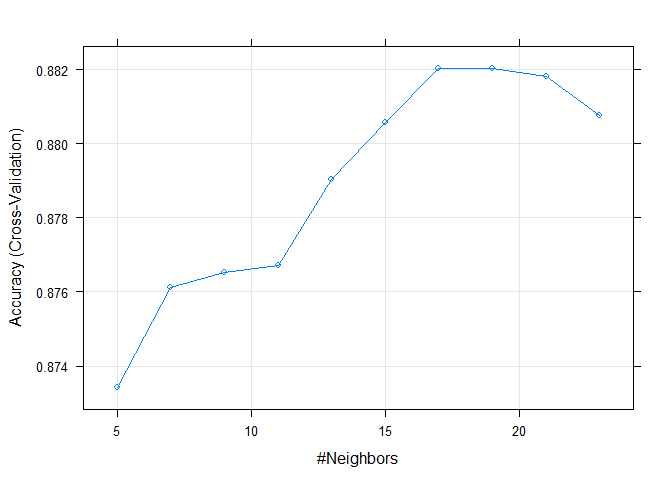
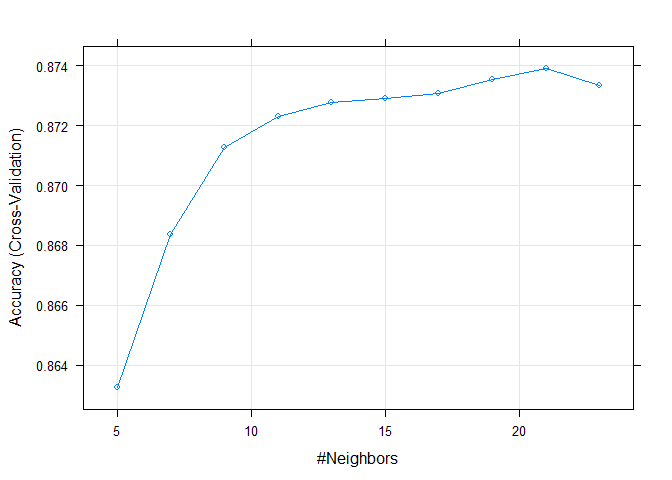
update to sample entire solo data set

diff --git a/src/objective_two/chance/knn.md b/src/objective_two/chance/knn.md
@@ -22,14 +22,14 @@ Chance Robinson
 library(tidyverse)
 ```
 
-    ## -- Attaching packages ------------------------------------------------------------------------------------ tidyverse 1.2.1 --
+    ## -- Attaching packages ------------------------------------------------------------------------------------------------------------ tidyverse 1.2.1 --
 
     ## v ggplot2 3.2.1     v purrr   0.3.3
     ## v tibble  2.1.3     v dplyr   0.8.3
     ## v tidyr   1.0.0     v stringr 1.4.0
     ## v readr   1.3.1     v forcats 0.4.0
 
-    ## -- Conflicts --------------------------------------------------------------------------------------- tidyverse_conflicts() --
+    ## -- Conflicts --------------------------------------------------------------------------------------------------------------- tidyverse_conflicts() --
     ## x dplyr::filter() masks stats::filter()
     ## x dplyr::lag()    masks stats::lag()
 
@@ -62,40 +62,40 @@ head(data)
 ```
 
     ##               Id        groupId        matchId assists boosts damageDealt DBNOs
-    ## 1 315c96c26c9aac de04010b3458dd 6dc8ff871e21e6       0      0     100.000     0
-    ## 2 311b84c6ff4390 eaba5fcb7fc1ae 292611730ca862       0      0       8.538     0
-    ## 3 b7807186e3f679 3c08e461874749 2c30ddf481c52d       0      1     324.200     0
-    ## 4 92022479b92ce7 2f2c33f548c4b9 07948d723b9c0f       0      3     254.300     0
-    ## 5 47143f942503e0 e17a8867a393ec bc2faecb77e5ec       0      0     136.900     0
-    ## 6 269c3fc4a26935 3c07be51998e6f ce9bc89b3ca08c       0      1     100.000     0
+    ## 1 269c3fc4a26935 3c07be51998e6f ce9bc89b3ca08c       0      1      100.00     0
+    ## 2 73348483a5974b 1c8e486a643207 85601fe44d519b       0      0       17.81     0
+    ## 3 caa1a36afeb7b2 c653cfca3b8b06 e5e181d2da0334       0      1      100.00     0
+    ## 4 5fd62798396ca8 bb19a05801d30d 9e3c46f8acde82       0      0       36.00     0
+    ## 5 18d002b46b1abc 00a3f236559532 eccc44618c0442       0      1      236.00     0
+    ## 6 d08ce24e7a7973 d57ed9de010a4e 1eda9747e31f1f       0      0        0.00     0
     ##   headshotKills heals killPlace killPoints kills killStreaks longestKill
-    ## 1             0     0        45          0     1           1       58.53
-    ## 2             0     0        48       1000     0           0        0.00
-    ## 3             1     5         5        986     4           1       49.83
-    ## 4             0    12        13          0     2           1       36.00
-    ## 5             0     0        37          0     1           1       22.83
-    ## 6             0     0        24          0     1           1       21.25
+    ## 1             0     0        24          0     1           1      21.250
+    ## 2             0     0        79       1274     0           0       0.000
+    ## 3             0     0        38       1000     1           1       7.667
+    ## 4             0     0        84          0     0           0       0.000
+    ## 5             0     7         7       1142     3           1      11.720
+    ## 6             0     0        65          0     0           0       0.000
     ##   matchDuration matchType maxPlace numGroups rankPoints revives rideDistance
-    ## 1          1424  solo-fpp       97        95       1560       0            0
-    ## 2          1967  solo-fpp       96        92         -1       0         2004
-    ## 3          1886  solo-fpp       97        94         -1       0         1228
-    ## 4          1371  solo-fpp       96        95       1536       0         2367
-    ## 5          1425  solo-fpp       96        94       1500       0            0
-    ## 6          1398      solo       92        89       1509       0            0
+    ## 1          1398      solo       92        89       1509       0          0.0
+    ## 2          1945      solo       99        95         -1       0        129.3
+    ## 3          2042      solo       90        86         -1       0          0.0
+    ## 4          1999      solo       94        92       1507       0          0.0
+    ## 5          1423      solo       94        88         -1       0          0.0
+    ## 6          1471      solo       99        94       1500       0          0.0
     ##   roadKills swimDistance teamKills vehicleDestroys walkDistance weaponsAcquired
-    ## 1         0         0.00         0               0        49.75               2
-    ## 2         0         0.00         0               0      1089.00               6
-    ## 3         0        76.84         0               0      2050.00               6
-    ## 4         0        15.29         0               0      1787.00               3
-    ## 5         0         0.00         0               0       270.70               1
-    ## 6         0        61.00         0               0      1528.00               3
+    ## 1         0           61         0               0       1528.0               3
+    ## 2         0            0         0               0        471.9               3
+    ## 3         0            0         0               0        231.7               4
+    ## 4         0            0         0               0        292.6               1
+    ## 5         0            0         0               0       1913.0               8
+    ## 6         0            0         0               0        870.9               3
     ##   winPoints winPlacePerc top.10
-    ## 1         0       0.1875      0
-    ## 2      1500       0.7368      0
-    ## 3      1462       0.8750      0
-    ## 4         0       0.8211      0
-    ## 5         0       0.3474      0
-    ## 6         0       0.8462      0
+    ## 1         0       0.8462      0
+    ## 2      1536       0.2245      0
+    ## 3      1500       0.1573      0
+    ## 4         0       0.1075      0
+    ## 5      1557       0.9355      1
+    ## 6         0       0.3878      0
 
 ## Remove Missing Values
 
@@ -113,12 +113,12 @@ head(data[cols_to_keep])
 ```
 
     ##   walkDistance killPlace boosts weaponsAcquired damageDealt heals kills top.10
-    ## 1        49.75        45      0               2     100.000     0     1      0
-    ## 2      1089.00        48      0               6       8.538     0     0      0
-    ## 3      2050.00         5      1               6     324.200     5     4      0
-    ## 4      1787.00        13      3               3     254.300    12     2      0
-    ## 5       270.70        37      0               1     136.900     0     1      0
-    ## 6      1528.00        24      1               3     100.000     0     1      0
+    ## 1       1528.0        24      1               3      100.00     0     1      0
+    ## 2        471.9        79      0               3       17.81     0     0      0
+    ## 3        231.7        38      1               4      100.00     0     1      0
+    ## 4        292.6        84      0               1       36.00     0     0      0
+    ## 5       1913.0         7      1               8      236.00     7     3      1
+    ## 6        870.9        65      0               3        0.00     0     0      0
 
 ## Prepare Dataframe
 
@@ -130,20 +130,20 @@ data.mod <- data %>%
 summary(data.mod)
 ```
 
-    ##   walkDistance       killPlace          boosts       weaponsAcquired  
-    ##  Min.   :    0.0   Min.   :  1.00   Min.   : 0.000   Min.   :  0.000  
-    ##  1st Qu.:  100.5   1st Qu.: 23.00   1st Qu.: 0.000   1st Qu.:  2.000  
-    ##  Median :  502.7   Median : 47.00   Median : 0.000   Median :  3.000  
-    ##  Mean   :  955.7   Mean   : 47.56   Mean   : 1.061   Mean   :  3.555  
-    ##  3rd Qu.: 1588.0   3rd Qu.: 71.00   3rd Qu.: 2.000   3rd Qu.:  5.000  
-    ##  Max.   :25780.0   Max.   :100.00   Max.   :28.000   Max.   :153.000  
-    ##   damageDealt          heals           kills         top.10      
-    ##  Min.   :   0.00   Min.   : 0.00   Min.   : 0.0000   No :644120  
-    ##  1st Qu.:   0.00   1st Qu.: 0.00   1st Qu.: 0.0000   Yes: 74584  
-    ##  Median :  73.96   Median : 0.00   Median : 0.0000               
-    ##  Mean   : 117.32   Mean   : 1.01   Mean   : 0.9186               
-    ##  3rd Qu.: 168.60   3rd Qu.: 1.00   3rd Qu.: 1.0000               
-    ##  Max.   :2490.00   Max.   :63.00   Max.   :23.0000
+    ##   walkDistance       killPlace          boosts       weaponsAcquired 
+    ##  Min.   :    0.0   Min.   :  1.00   Min.   : 0.000   Min.   : 0.000  
+    ##  1st Qu.:  114.0   1st Qu.: 21.00   1st Qu.: 0.000   1st Qu.: 2.000  
+    ##  Median :  607.7   Median : 46.00   Median : 0.000   Median : 3.000  
+    ##  Mean   :  986.2   Mean   : 46.17   Mean   : 1.066   Mean   : 3.757  
+    ##  3rd Qu.: 1616.0   3rd Qu.: 70.00   3rd Qu.: 2.000   3rd Qu.: 5.000  
+    ##  Max.   :15370.0   Max.   :100.00   Max.   :24.000   Max.   :52.000  
+    ##   damageDealt          heals            kills         top.10      
+    ##  Min.   :   0.00   Min.   : 0.000   Min.   : 0.0000   No :162933  
+    ##  1st Qu.:   0.00   1st Qu.: 0.000   1st Qu.: 0.0000   Yes: 19010  
+    ##  Median :  65.73   Median : 0.000   Median : 0.0000               
+    ##  Mean   : 112.62   Mean   : 1.012   Mean   : 0.8709               
+    ##  3rd Qu.: 159.60   3rd Qu.: 1.000   3rd Qu.: 1.0000               
+    ##  Max.   :2490.00   Max.   :49.000   Max.   :21.0000
 
 ``` r
 # str(data.mod)
@@ -152,7 +152,7 @@ summary(data.mod)
 ## KNN Train / Test Split
 
 ``` r
-sample.data <- sample_frac(data.mod, 0.10)
+sample.data <- sample_frac(data.mod, 1)
 
 sample.data <- downSample(sample.data, sample.data$top.10, list = FALSE)
 sample.data$Class <- NULL
@@ -184,29 +184,29 @@ knn.model
 
     ## k-Nearest Neighbors 
     ## 
-    ## 10358 samples
+    ## 26614 samples
     ##     7 predictor
     ##     2 classes: 'No', 'Yes' 
     ## 
     ## Pre-processing: centered (7), scaled (7) 
     ## Resampling: Cross-Validated (10 fold) 
-    ## Summary of sample sizes: 9322, 9323, 9322, 9322, 9322, 9322, ... 
+    ## Summary of sample sizes: 23952, 23953, 23952, 23953, 23952, 23953, ... 
     ## Resampling results across tuning parameters:
     ## 
     ##   k   Accuracy   Kappa    
-    ##    5  0.8734318  0.7468635
-    ##    7  0.8761343  0.7522682
-    ##    9  0.8765199  0.7530394
-    ##   11  0.8767145  0.7534285
-    ##   13  0.8790320  0.7580640
-    ##   15  0.8805763  0.7611523
-    ##   17  0.8820242  0.7640482
-    ##   19  0.8820238  0.7640475
-    ##   21  0.8818309  0.7636618
-    ##   23  0.8807690  0.7615379
+    ##    5  0.8632670  0.7265344
+    ##    7  0.8683772  0.7367548
+    ##    9  0.8712706  0.7425415
+    ##   11  0.8723226  0.7446453
+    ##   13  0.8727737  0.7455477
+    ##   15  0.8729239  0.7458480
+    ##   17  0.8730742  0.7461485
+    ##   19  0.8735627  0.7471256
+    ##   21  0.8739010  0.7478024
+    ##   23  0.8733374  0.7466750
     ## 
     ## Accuracy was used to select the optimal model using the largest value.
-    ## The final value used for the model was k = 17.
+    ## The final value used for the model was k = 21.
 
 ``` r
 plot(knn.model)
@@ -225,26 +225,26 @@ confusionMatrix(knn.predict, test$top.10, "Yes")
     ## 
     ##           Reference
     ## Prediction   No  Yes
-    ##        No  1836  177
-    ##        Yes  383 2042
-    ##                                           
-    ##                Accuracy : 0.8738          
-    ##                  95% CI : (0.8637, 0.8835)
-    ##     No Information Rate : 0.5             
-    ##     P-Value [Acc > NIR] : < 2.2e-16       
-    ##                                           
-    ##                   Kappa : 0.7476          
-    ##                                           
-    ##  Mcnemar's Test P-Value : < 2.2e-16       
-    ##                                           
-    ##             Sensitivity : 0.9202          
-    ##             Specificity : 0.8274          
-    ##          Pos Pred Value : 0.8421          
-    ##          Neg Pred Value : 0.9121          
-    ##              Prevalence : 0.5000          
-    ##          Detection Rate : 0.4601          
-    ##    Detection Prevalence : 0.5464          
-    ##       Balanced Accuracy : 0.8738          
-    ##                                           
-    ##        'Positive' Class : Yes             
+    ##        No  4672  383
+    ##        Yes 1031 5320
+    ##                                          
+    ##                Accuracy : 0.876          
+    ##                  95% CI : (0.8698, 0.882)
+    ##     No Information Rate : 0.5            
+    ##     P-Value [Acc > NIR] : < 2.2e-16      
+    ##                                          
+    ##                   Kappa : 0.7521         
+    ##                                          
+    ##  Mcnemar's Test P-Value : < 2.2e-16      
+    ##                                          
+    ##             Sensitivity : 0.9328         
+    ##             Specificity : 0.8192         
+    ##          Pos Pred Value : 0.8377         
+    ##          Neg Pred Value : 0.9242         
+    ##              Prevalence : 0.5000         
+    ##          Detection Rate : 0.4664         
+    ##    Detection Prevalence : 0.5568         
+    ##       Balanced Accuracy : 0.8760         
+    ##                                          
+    ##        'Positive' Class : Yes            
     ##
